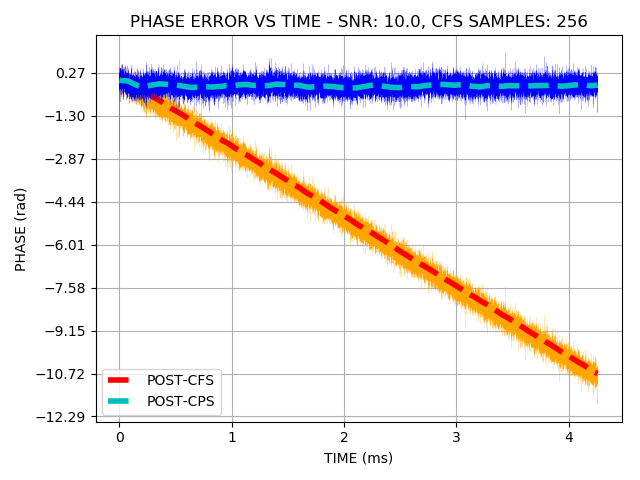
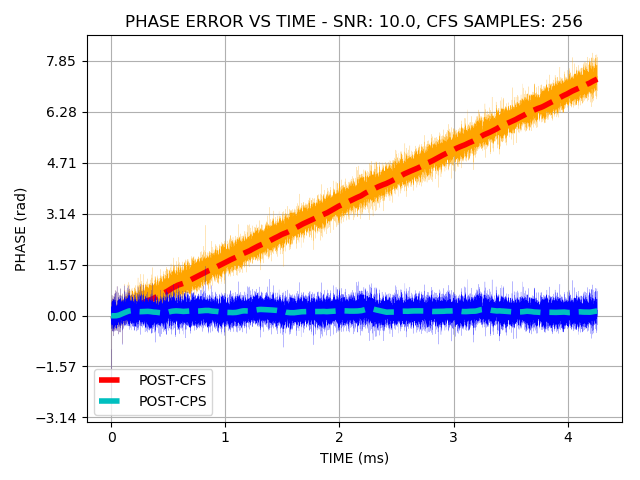
added new images

diff --git a/ZigBee_Synchronizer/main.py b/ZigBee_Synchronizer/main.py
@@ -85,7 +85,7 @@ if __name__ == "__main__":
     phaseNoiseCFS, = plt.plot(1e3*time, phaseDifference, 'orange')
     phaseDifference = utils.butter_lowpass_filter(phaseDifference, 5000, sampleRate*1e6, 2)
     phaseCFS, = plt.plot(1e3 * time, phaseDifference, 'r--')
-    plt.yticks(np.arange(min(phaseDifference)-2 * np.pi, max(phaseDifference) + np.pi / 2, np.pi / 2))
+    plt.yticks(np.arange(-2 * np.pi, max(phaseDifference) + np.pi / 2, np.pi / 2))
     phaseDifference = np.unwrap(np.angle(correctedSignal)) - np.unwrap(np.angle(myPacket.IQ))
     phaseNoiseCPS, = plt.plot(1e3 * time, phaseDifference, 'b')
     phaseDifference = utils.butter_lowpass_filter(phaseDifference, 5000, sampleRate*1e6, 2)
